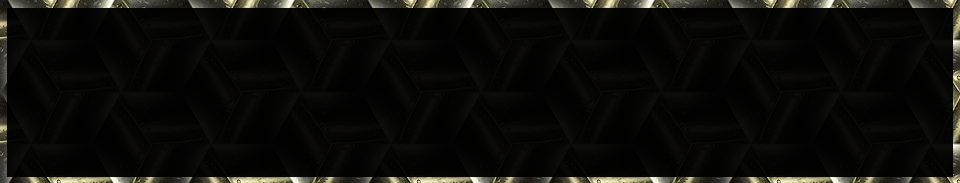
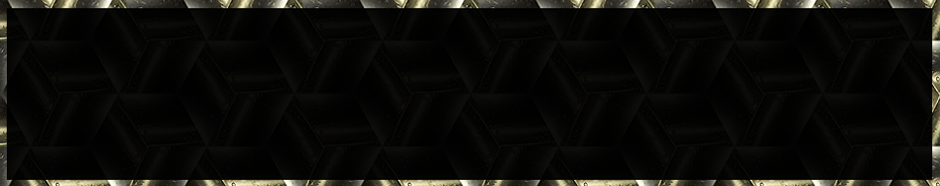
Modified battlebox size because it was too big (not really, fucking pygame was just stretching it)

diff --git a/data/states/battle.py b/data/states/battle.py
@@ -44,9 +44,11 @@ class Battle(tools._State):
                                           self.new_gold)
         self.arrow = battlegui.SelectArrow(self.enemy_pos_list,
                                            self.info_box)
+        '''
         self.select_box = battlegui.SelectBox()
         self.player_health_box = battlegui.PlayerHealth(self.select_box.rect,
                                                         self.game_data)
+        '''
 
         self.select_action_state_dict = self.make_selection_state_dict()
         self.observers = [observer.Battle(self),
@@ -66,6 +68,8 @@ class Battle(tools._State):
         self.maxhits = 1
         for p in self.players:
             p.attacked_enemy = None
+        self.currentmonster = (0,0)
+        
 
     def make_player_action_dict(self):
         """
@@ -140,8 +144,8 @@ class Battle(tools._State):
 
         for column in range(3):
             for row in range(3):
-                x = (column * 100) + 100
-                y = (row * 100) + 100
+                x = (column * 110) + 40
+                y = (row * 130) + 70
                 pos_list.append([x, y])
 
         enemy_group = pg.sprite.Group()
@@ -176,7 +180,12 @@ class Battle(tools._State):
         """
         players = []
         for i, p in enumerate(self.game_data['conductors']):
-            players.append(person.Player('left', self.game_data, 630, 220, 'battle resting', 1, p.name))
+            if i == 0:
+                players.append(person.Player('left', self.game_data, 758, 69, 'battle resting', 1, p.name))
+            elif i == 1:
+                players.append(person.Player('left', self.game_data, 575, 220, 'battle resting', 1, p.name))
+            elif i == 2:
+                players.append(person.Player('left', self.game_data, 777, 317, 'battle resting', 1, p.name))
             players[i].image = pg.transform.scale2x(players[i].image)
         return players
 
@@ -415,9 +424,10 @@ class Battle(tools._State):
         for p in self.players:
             surface.blit(p.image, p.rect)
         surface.blit(self.info_box.image, self.info_box.rect)
-        surface.blit(self.select_box.image, self.select_box.rect)
-        surface.blit(self.arrow.image, self.arrow.rect)
-        self.player_health_box.draw(surface)
+        #surface.blit(self.select_box.image, self.select_box.rect)
+        #surface.blit(self.arrow.image, self.arrow.rect)
+        self.arrow.draw(surface)
+        #self.player_health_box.draw(surface)
         self.damage_points.draw(surface)
         self.draw_transition(surface)
 

diff --git a/data/battlegui.py b/data/battlegui.py
@@ -30,6 +30,10 @@ class InfoBox(object):
         self.rect = self.image.get_rect(bottom=640)
         self.item_text_list = self.make_item_text()[1:]
         self.magic_text_list = self.make_magic_text()[1:]
+        self.basestrings = ['wholenote', '8thnote', 'gclef']
+        self.noteoff = [setup.GFX['wholenoteempty'], setup.GFX['8thnoteempty'], setup.GFX['gclefempty']]
+        self.noteon = [setup.GFX['wholenotefilled'], setup.GFX['8thnotefilled'], setup.GFX['gcleffilled']]
+        self.notecount = 4
 
     def make_state_dict(self):
         """
@@ -127,7 +131,9 @@ class InfoBox(object):
         surface = pg.Surface(rect.size)
         surface.set_colorkey(c.BLACK)
         surface.blit(image, (0, 0))
-
+        note_surface = pg.Surface((315,480))
+        note_rect = note_surface.get_rect(x=180, y=135)
+        
         if self.state == c.SELECT_ITEM:
             text_sprites = self.make_text_sprites(self.make_item_text())
             text_sprites.draw(surface)
@@ -181,7 +187,7 @@ class InfoBox(object):
         self.state_dict[c.LEVEL_UP] = self.level_up()
 
 
-
+'''
 class SelectBox(object):
     """
     Box to select whether to attack, use item, use magic or run away.
@@ -223,13 +229,14 @@ class SelectBox(object):
                                'y': (i*34)+10}
 
         return slot_dict
+'''
 
 
 class SelectArrow(object):
     """Small arrow for menu"""
     def __init__(self, enemy_pos_list, info_box):
         self.info_box = info_box
-        self.image = setup.GFX['smallarrow']
+        self.image = setup.GFX['doublearrow']
         self.rect = self.image.get_rect()
         self.state = 'select action'
         self.state_dict = self.make_state_dict()
@@ -272,12 +279,8 @@ class SelectArrow(object):
         """
         Make the list of positions the arrow can be in.
         """
-        pos_list = []
-
-        for i in range(4):
-            x = 590
-            y = (i * 34) + 472
-            pos_list.append((x, y))
+        self.image = setup.GFX['doublearrow']
+        pos_list = [(510,525)]
 
         return pos_list
 
@@ -412,7 +415,7 @@ class SelectArrow(object):
 
         self.enemy_pos_list = [pos for pos in enemy_list if pos != enemy_pos]
 
-
+'''
 class PlayerHealth(object):
     """
     Basic health meter for player.
@@ -476,3 +479,4 @@ class PlayerHealth(object):
         Draw health to surface.
         """
         surface.blit(self.image, self.rect)
+'''
